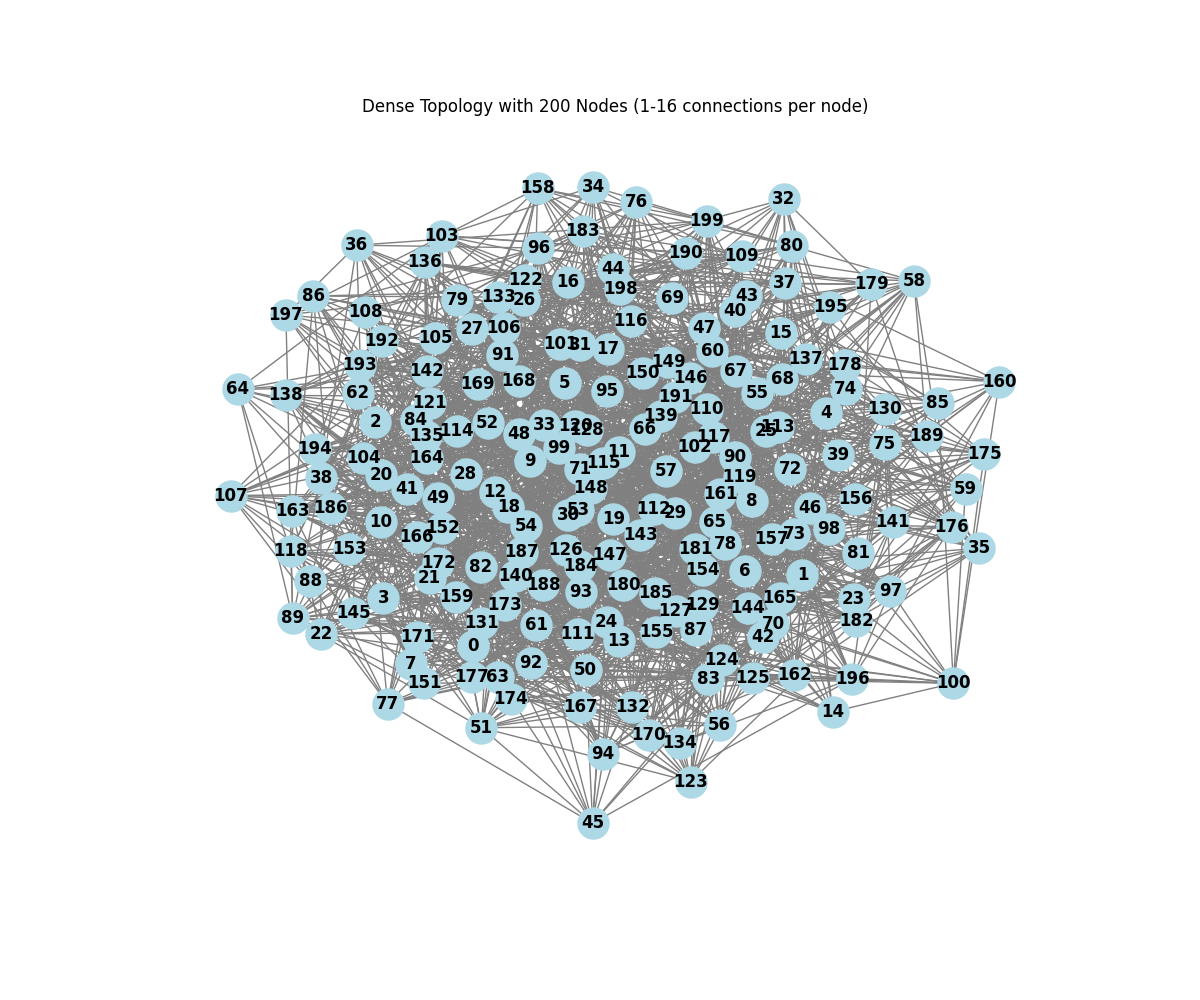
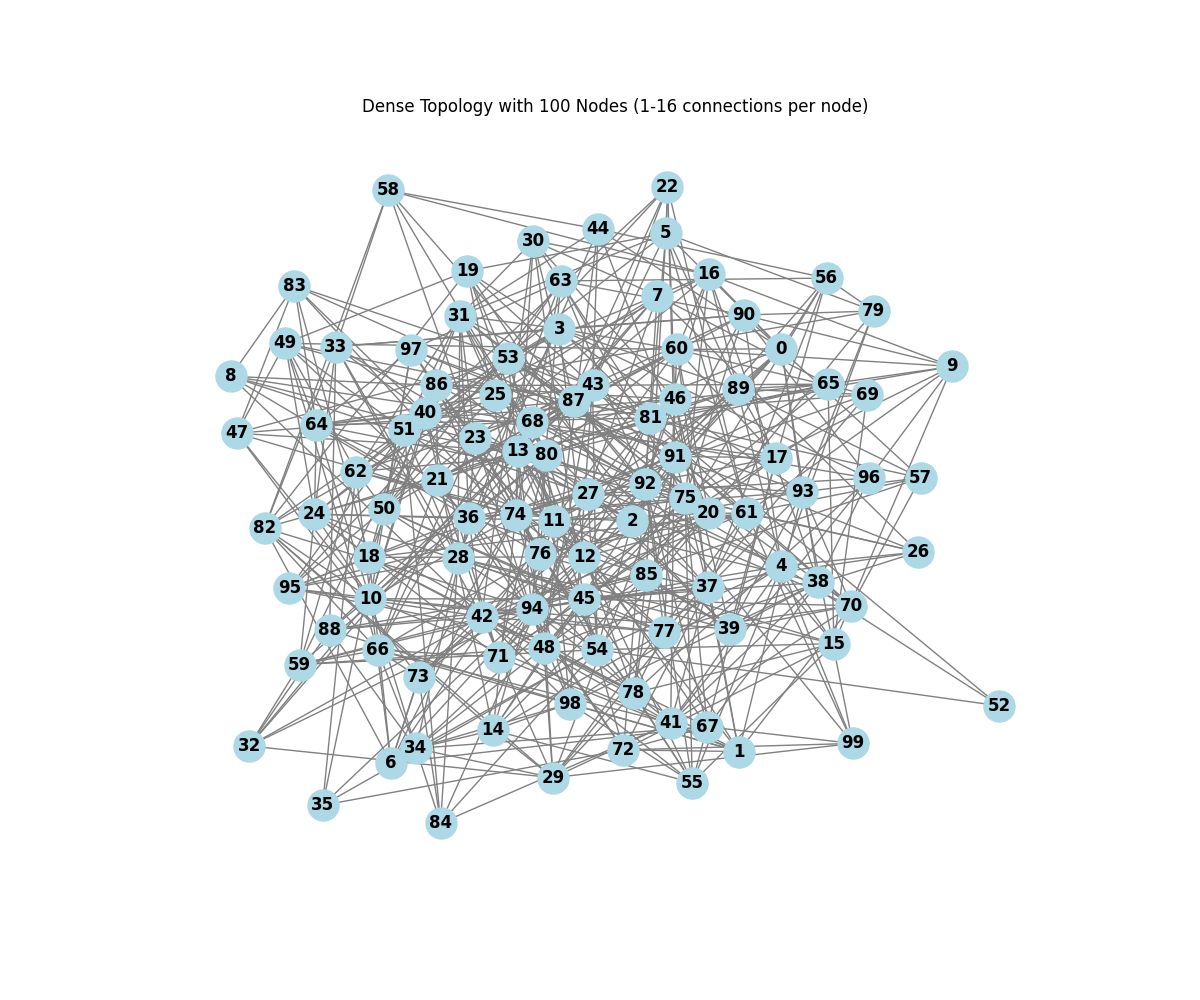
fixed topology to be 100 nodes

Changed region(s): [[0.185, 0.155, 0.8633, 0.837]]

diff --git a/src/topology_graph.py b/src/topology_graph.py
@@ -44,12 +44,12 @@ def draw_graph(G, title, file_name):
     plt.close()
 
 # Number of nodes
-nodes = 200
+nodes = 100
 
 # Sparse topology parameters (min 1, max 6 connections)
 sparse_graph = generate_topology(nodes, max_peers=6, min_peers=1, connection_probability=0.02)
-draw_graph(sparse_graph, "Sparse Topology with 200 Nodes (1-6 connections per node)", "./graphs/sparse_topology.png")
+draw_graph(sparse_graph, "Sparse Topology with 100 Nodes (1-6 connections per node)", "./graphs/sparse_topology.png")
 
 # Dense topology parameters (min 1, max 16 connections)
 dense_graph = generate_topology(nodes, max_peers=16, min_peers=1, connection_probability=0.05)
-draw_graph(dense_graph, "Dense Topology with 200 Nodes (1-16 connections per node)", "./graphs/dense_topology.png")
+draw_graph(dense_graph, "Dense Topology with 100 Nodes (1-16 connections per node)", "./graphs/dense_topology.png")

diff --git a/README.md b/README.md
@@ -7,7 +7,7 @@ This code serves as a foundational template for the cs409 - Fundamentals of Bloc
 ## Before you start
 
 1. Create an virtual environment by running `python -m venv .venv`
-2. Activate it bu running `source .venv/Scripts/activate`
+2. Activate it bu running `source .venv/Scripts/activate` or `source .venv/bin/activate`
 3. Download required packages with `pip install -r requirements.txt`
 4. If you need to deactivate the virtual environment run `deactivate`
 
